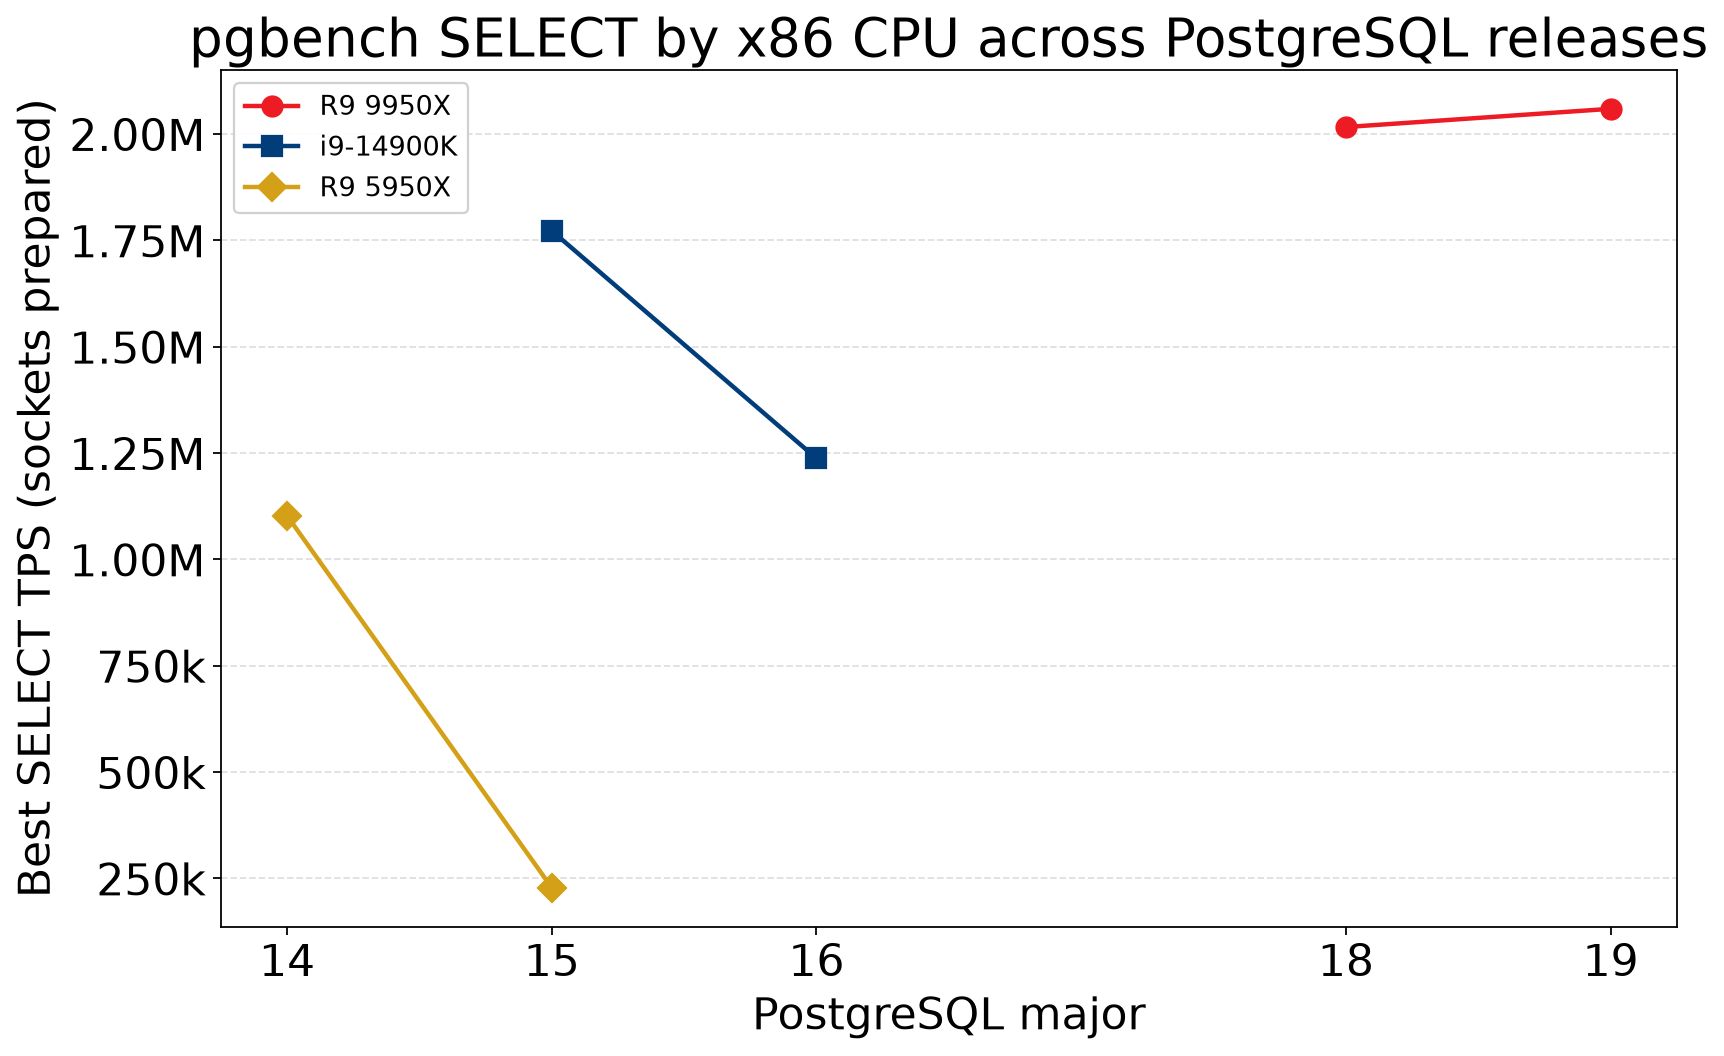
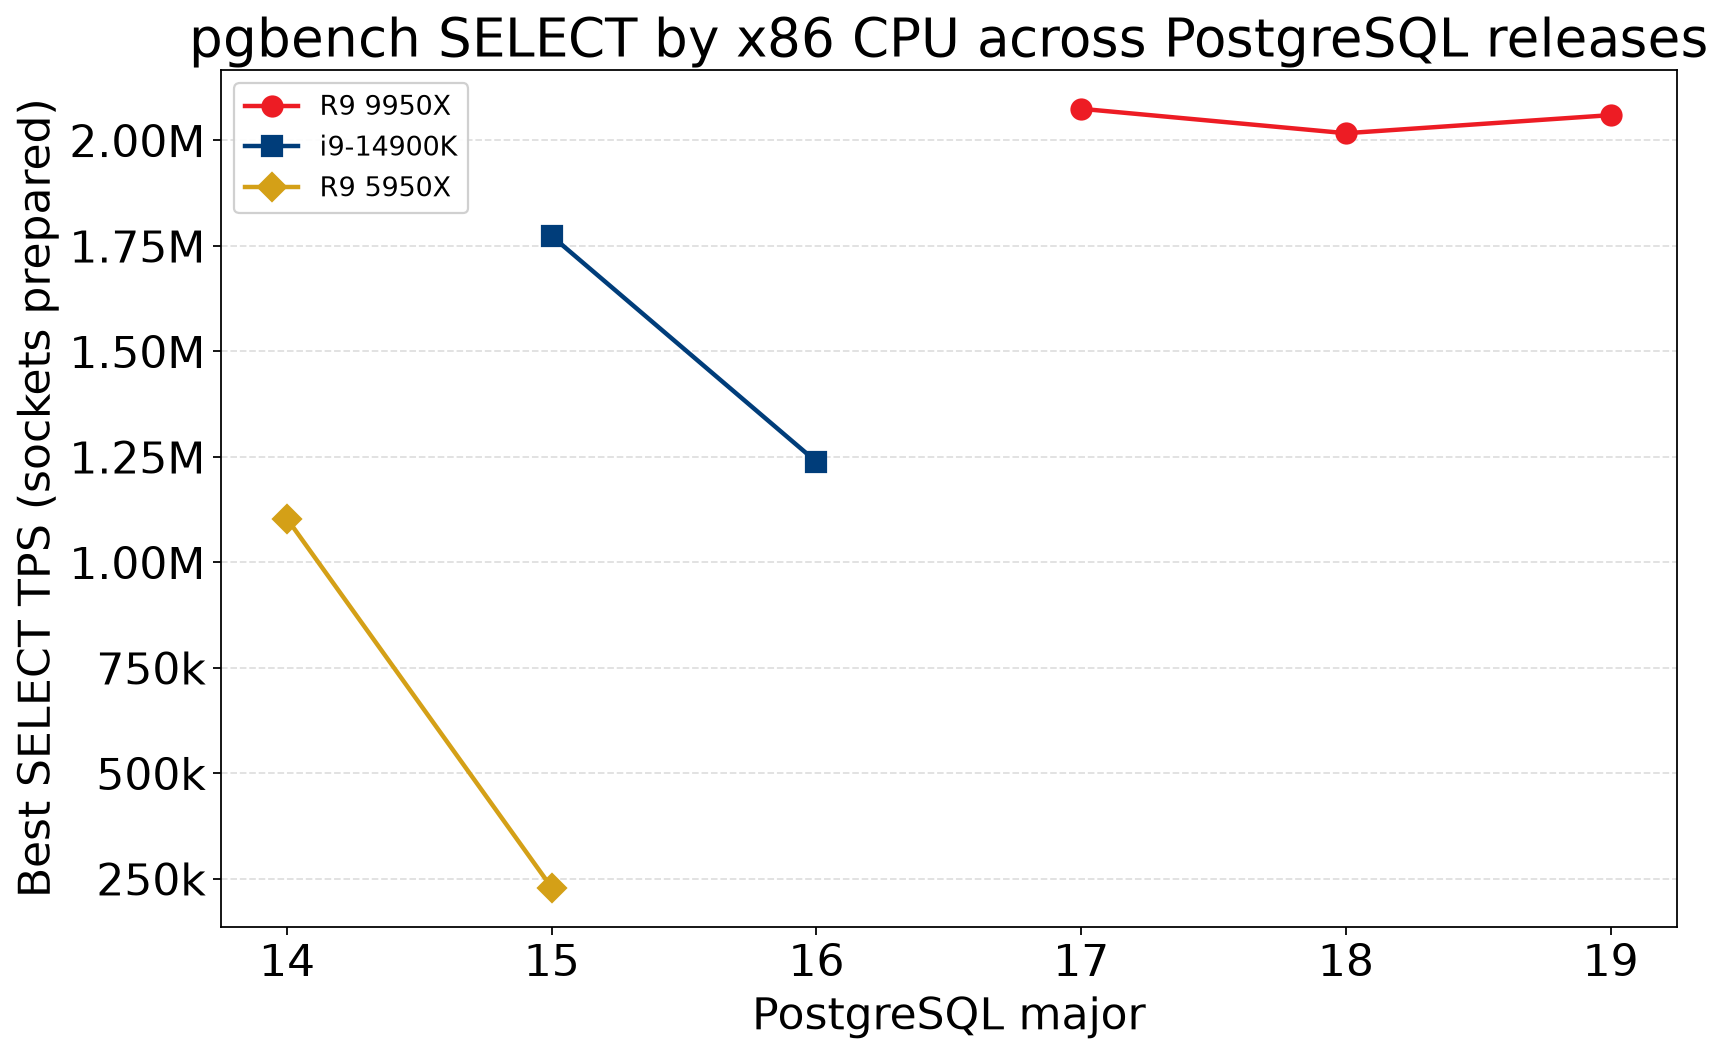
Anchor SELECT history with a provisional 9950X PG17 peak.
Hold 2,074,343 TPS until the four-face set lands; the chart replaces the placeholder from results automatically.

diff --git a/reports/select-history.py b/reports/select-history.py
@@ -70,6 +70,20 @@ CPU_COLORS: dict[str, str] = {
 
 MARKERS = ("o", "s", "D", "^", "v", "P", "X", "*", "h", "p")
 
+# Provisional sockets-prepared peaks until the matching set lands in results.
+# Dropped automatically once a real row exists for the same cpu × major.
+PLACEHOLDER_POINTS: list[dict] = [
+    {
+        "cpu_hist": "R9 9950X",
+        "major": 17,
+        "tps": 2_074_343,
+        "server": "siren",
+        "batch_id": None,
+        "batch": "placeholder PG17 sockets prepared",
+        "conn": "sockets prepared",
+    },
+]
+
 
 def parse_args() -> argparse.Namespace:
     parser = argparse.ArgumentParser(
@@ -209,7 +223,28 @@ def best_by_cpu_major(df: pd.DataFrame) -> pd.DataFrame:
         .groupby(["cpu_hist", "major"], as_index=False)
         .first()
     )
-    return best.sort_values(["cpu_hist", "major"]).reset_index(drop=True)
+    return apply_placeholders(best)
+
+
+def apply_placeholders(best: pd.DataFrame) -> pd.DataFrame:
+    """Fill missing cpu × major cells from PLACEHOLDER_POINTS; never override DB."""
+    if not PLACEHOLDER_POINTS:
+        return best.sort_values(["cpu_hist", "major"]).reset_index(drop=True)
+    rows = []
+    have = {(r.cpu_hist, int(r.major)) for r in best.itertuples(index=False)}
+    for ph in PLACEHOLDER_POINTS:
+        key = (ph["cpu_hist"], int(ph["major"]))
+        if key in have:
+            continue
+        rows.append(ph)
+        print(
+            f"placeholder: {ph['cpu_hist']} PG{ph['major']} "
+            f"{float(ph['tps']):,.0f} TPS ({ph.get('batch', 'provisional')})"
+        )
+    if not rows:
+        return best.sort_values(["cpu_hist", "major"]).reset_index(drop=True)
+    filled = pd.concat([best, pd.DataFrame(rows)], ignore_index=True, sort=False)
+    return filled.sort_values(["cpu_hist", "major"]).reset_index(drop=True)
 
 
 def cpu_color(cpu: str) -> str:

diff --git a/docs/leaderboards.md b/docs/leaderboards.md
@@ -101,7 +101,7 @@ Regenerate: `MPLBACKEND=Agg MPLCONFIGDIR="$PWD/.matplotlib-cache" .venv-graph/bi
 
 ### History
 
-Best **sockets prepared** SELECT TPS per **x86** CPU across PostgreSQL majors — the same face as the starter board above. Older archives rarely stored `conn_method`; those points come from set names that said `Sockets Prepared`. The series is thin (rising 5950X, twilight i9, siren 9950X) but enough to anchor a trend.
+Best **sockets prepared** SELECT TPS per **x86** CPU across PostgreSQL majors — the same face as the starter board above. Older archives rarely stored `conn_method`; those points come from set names that said `Sockets Prepared`. The series is thin (rising 5950X, twilight i9, siren 9950X) but enough to anchor a trend. The **9950X PG17** point (**2,074,343** TPS) is a provisional peak until the four-face set finishes collecting; the chart drops the placeholder once a real row lands.
 
 ![pgbench SELECT sockets-prepared history by x86 CPU]({{ '/images/select-history.png' | relative_url }})
 
